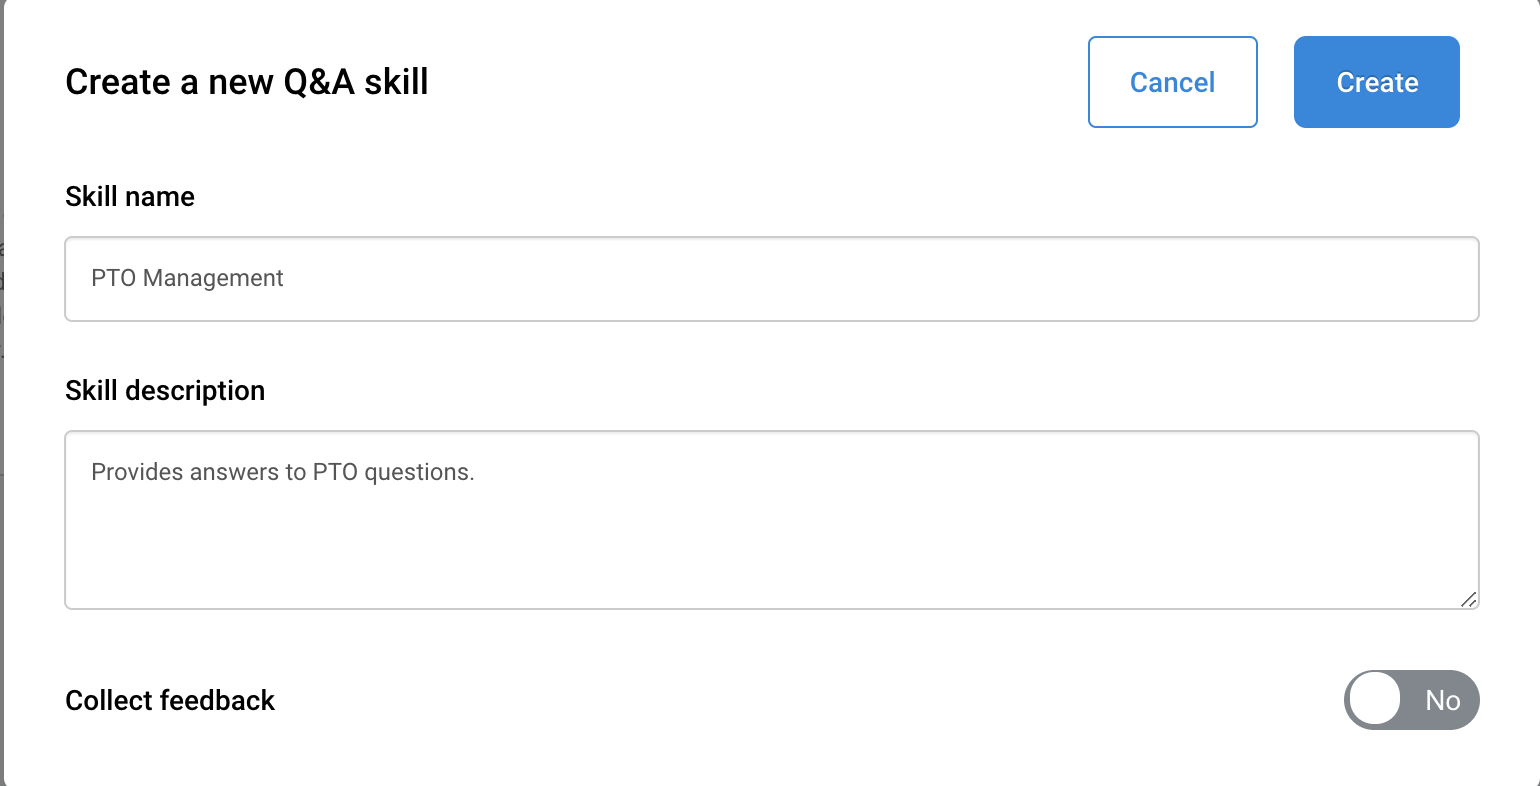
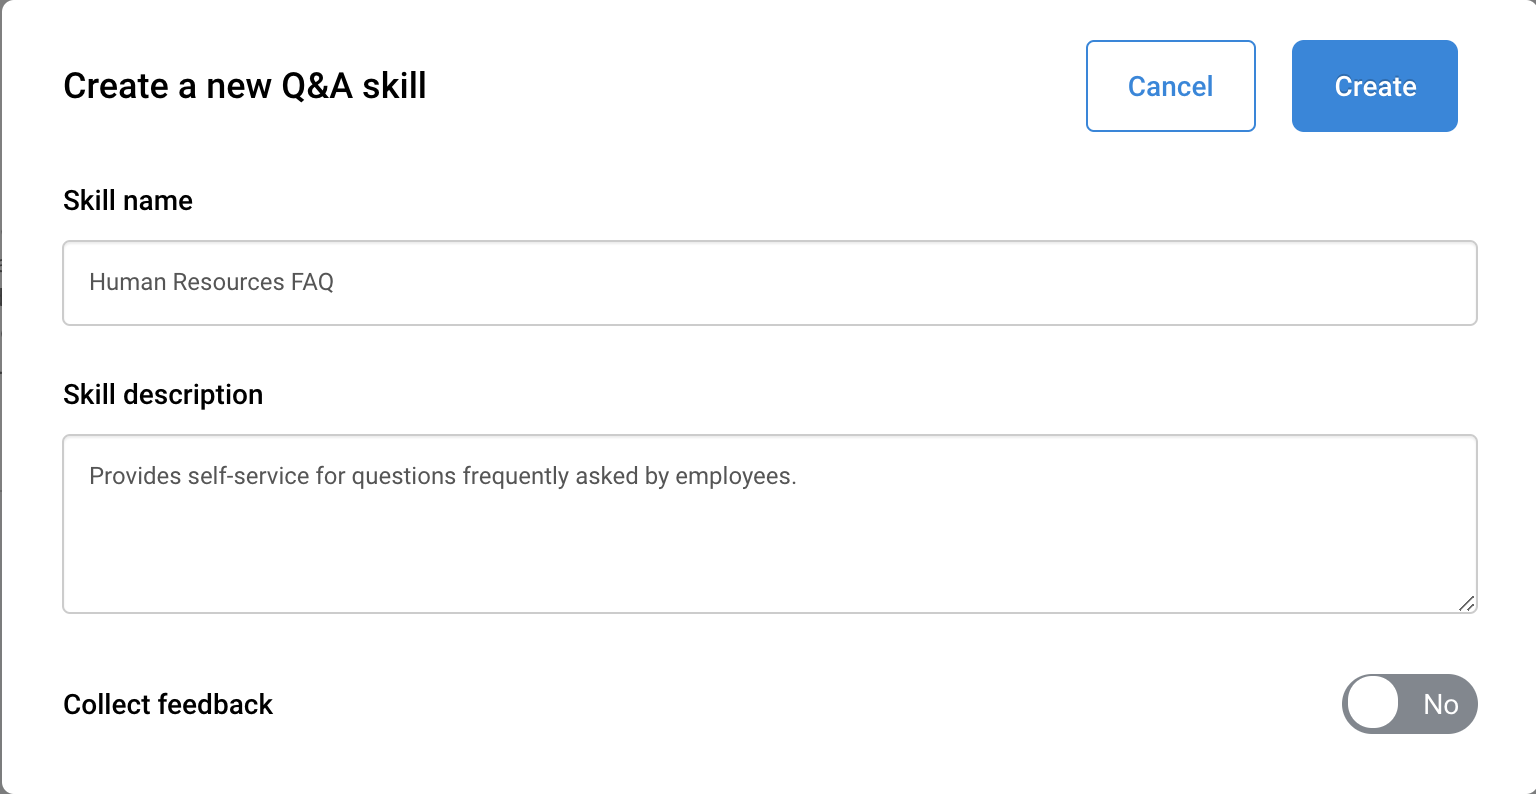
Checkpoint of the latest changes

diff --git a/contents/hr-agent/qna-skill.md b/contents/hr-agent/qna-skill.md
@@ -1,12 +1,15 @@
 ## Creating a Q&amp;A Skill
 
-** TBD: Show the steps to built out the PTO Management Skill But Enhance with better responses**
+You will now create a skill that will be able to answer frequently asked questions with varied
+responses depending on which country the user is located.
 
 ### Exercise: Create a New Dialog Skill
 
+Follow these steps to create the Q&A skill.
+
 - Navigate to **Agent -> Skills**
 
-![Skills Page](contents/hr-agent/images/qna-skills-page.png)
+![Skills Page](contents/hr-agent/images/qna-skill-page.png)
 
 \pagebreak
 
@@ -18,7 +21,7 @@
 
 - Place you mouse over the _Q&A_ card and click on the _Create_ button.
 
-![Create skill type](contents/hr-agent/images/qna-select-type-page.png)
+![Create skill type](contents/hr-agent/images/qna-skill-type-page.png)
 
 \pagebreak
 
@@ -30,16 +33,127 @@
 
 - The Q&A skill builder is then shown.
 
-![Create Q&A skill dialog](contents/hr-agent/images/qna-skill-builder-page.png)
+![New Q&A Skill](contents/hr-agent/images/qna-skill-builder-page.png)
 
 
 ### Exercise: Import the Questions & Answers
 
-### Exercise: Add the Response Filters
+To populate the Q&A skill with question/answers you will import them using a CSV file.
 
-### Exercise: Add Tags to the Responses
+The pre-populated CSV file can be found [here](https://gitlab.com/david.gwartney/avaamo-tutorial-assets/-/raw/master/human-resources-faq.csv)
+
+- Navigate to the Q&A skill you just created.
+
+![Q&A skill builder page](contents/hr-agent/images/qna-skill-builder-page.png)
+
+\pagebreak
+
+- Click on the _Import_ button which displays the import dialog
+
+![Q&A import dialog](contents/hr-agent/images/qna-import-dialog.png)
+
+\pagebreak
+
+- Click on the _Import_ button and locate the downloaded file from the link provide above 
+
+![Q&A imported file](contents/hr-agent/images/qna-imported-file.png)
+
+\pagebreak
+
+- Click on the _Submit_ button to complete the import
+
+- Lastly click on the _Save_ button to save the skill
+
+### Exercise: Add the Response Filters and Tags to the Response
+
+There are now 3 questions imported with 10 responses. The next step is to associate the response filters
+with each of the responses.
+
+The following shows how to attach a response filter to a specific response:
+
+- Click on the intent `2020 Holidays`
+
+- Click on second response marked with a _2_
+
+![Q&A intent dialog](contents/hr-agent/images/qna-intent-dialog.png)
+
+\pagebreak
+
+- Click in the _Response Filter_ field and type `Belgium` which will locate the `Location - Belgium` response filter.
+
+![Q&A intent dialog](contents/hr-agent/images/qna-intent-response-filter-belgium.png)
+
+\pagebreak
+
+- Select the response filter name in the popup.
+
+![Q&A intent dialog](contents/hr-agent/images/qna-intent-response-filter-belgium.png)
+
+- Click in the _Tags_ field and type `Belgium` which will locate the `Belgium` tag and select the tag name
+in the popup
+
+- Click in the _Tags_ field and type `Europe` which will locate the `Europe` tag and select the tag name
+
+- Repeat the same steps above for each of the response filters using the list below. When completed
+click on the _OK_ button. Next click on the _Save_ button in the upper right hand corner of the page.
+
+* Response `3`
+    - Response Filter
+        - `Cost Rica`
+    - Tags
+        - `Costa Rica`
+        - `Americas`
+* Response `4`
+    - Response Filter
+        - `Finland`
+    - Tags
+        - `Finland`
+        - `Europe`
+* Response `5`
+    - Response Filter
+        - `France`
+    - Tags
+        - `France`
+        - `Europe`
+* Response `6`
+    - Response Filter
+        - `Germany`
+    - Tags
+        - `Germany`
+        - `Europe`
+* Response `7`
+    - Response Filter
+        - `Ireland`
+    - Tags
+        - `Ireland`
+        - `Europe`
+* Response `8`
+    - Response Filter
+        - `Japan`
+    - Tags
+        - `Japan`
+        - `Asia`
+* Response `9`
+    - Response Filter
+        - `Mexico`
+    - Tags
+        - `Mexico`
+        - `Americas`
+* Response `10`
+    - Response Filter
+        - `Poland`
+    - Tags
+        - `Poland`
+        - `Europe`
+
 
 ### Exercise: Use the Skill
+
+Try some example questions to the test out the skill:
+
+>> _What are our holidays this year?_
+>>
+>> 
 
 
 

diff --git a/contents/hr-agent/response-filters.md b/contents/hr-agent/response-filters.md
@@ -42,35 +42,22 @@ Use the method in the previous exercise to configure the remaining response filt
 according to values represented below.
 
 * `Location - Belgium`
-    - `Brussels`
-    - `Kontich`
+    - `Belgium`
 * `Location - Costa Rica`
-    - `Heredia`
+    - `Costa Rica`
 * `Location - Finland`
-    - `Espoo`
-    - `Helsinki`
+    - `Finland`
 * `Location - France`
-    - `Paris`
-    - `Sophia Antipolis`
-    - `Tolouse`
-    - `Montpellier`
-    - `Nantes`
-    - `Aix-en-Provence`
+    - `France`
 * `Location - Germany`
-    - `Duisburg`
-    - `Karlsruhe`
-    - `Munich`
+    - `Germany`
 * `Location - Ireland`
-    - `Lexip`
-    - `Shannon`
+    - `Ireland`
 * `Location - Japan`
-    - `Tokyo`
-    - `Tsukuba`
+    - `Japan`
 * `Location - Mexico`
-    - `Guadalajara`
-    - `Mexico City`
+    - `Mexico`
 * `Location - Poland`
-    - `Gdansk`
-    - `Warsaw`
+    - `Poland`
 
 
